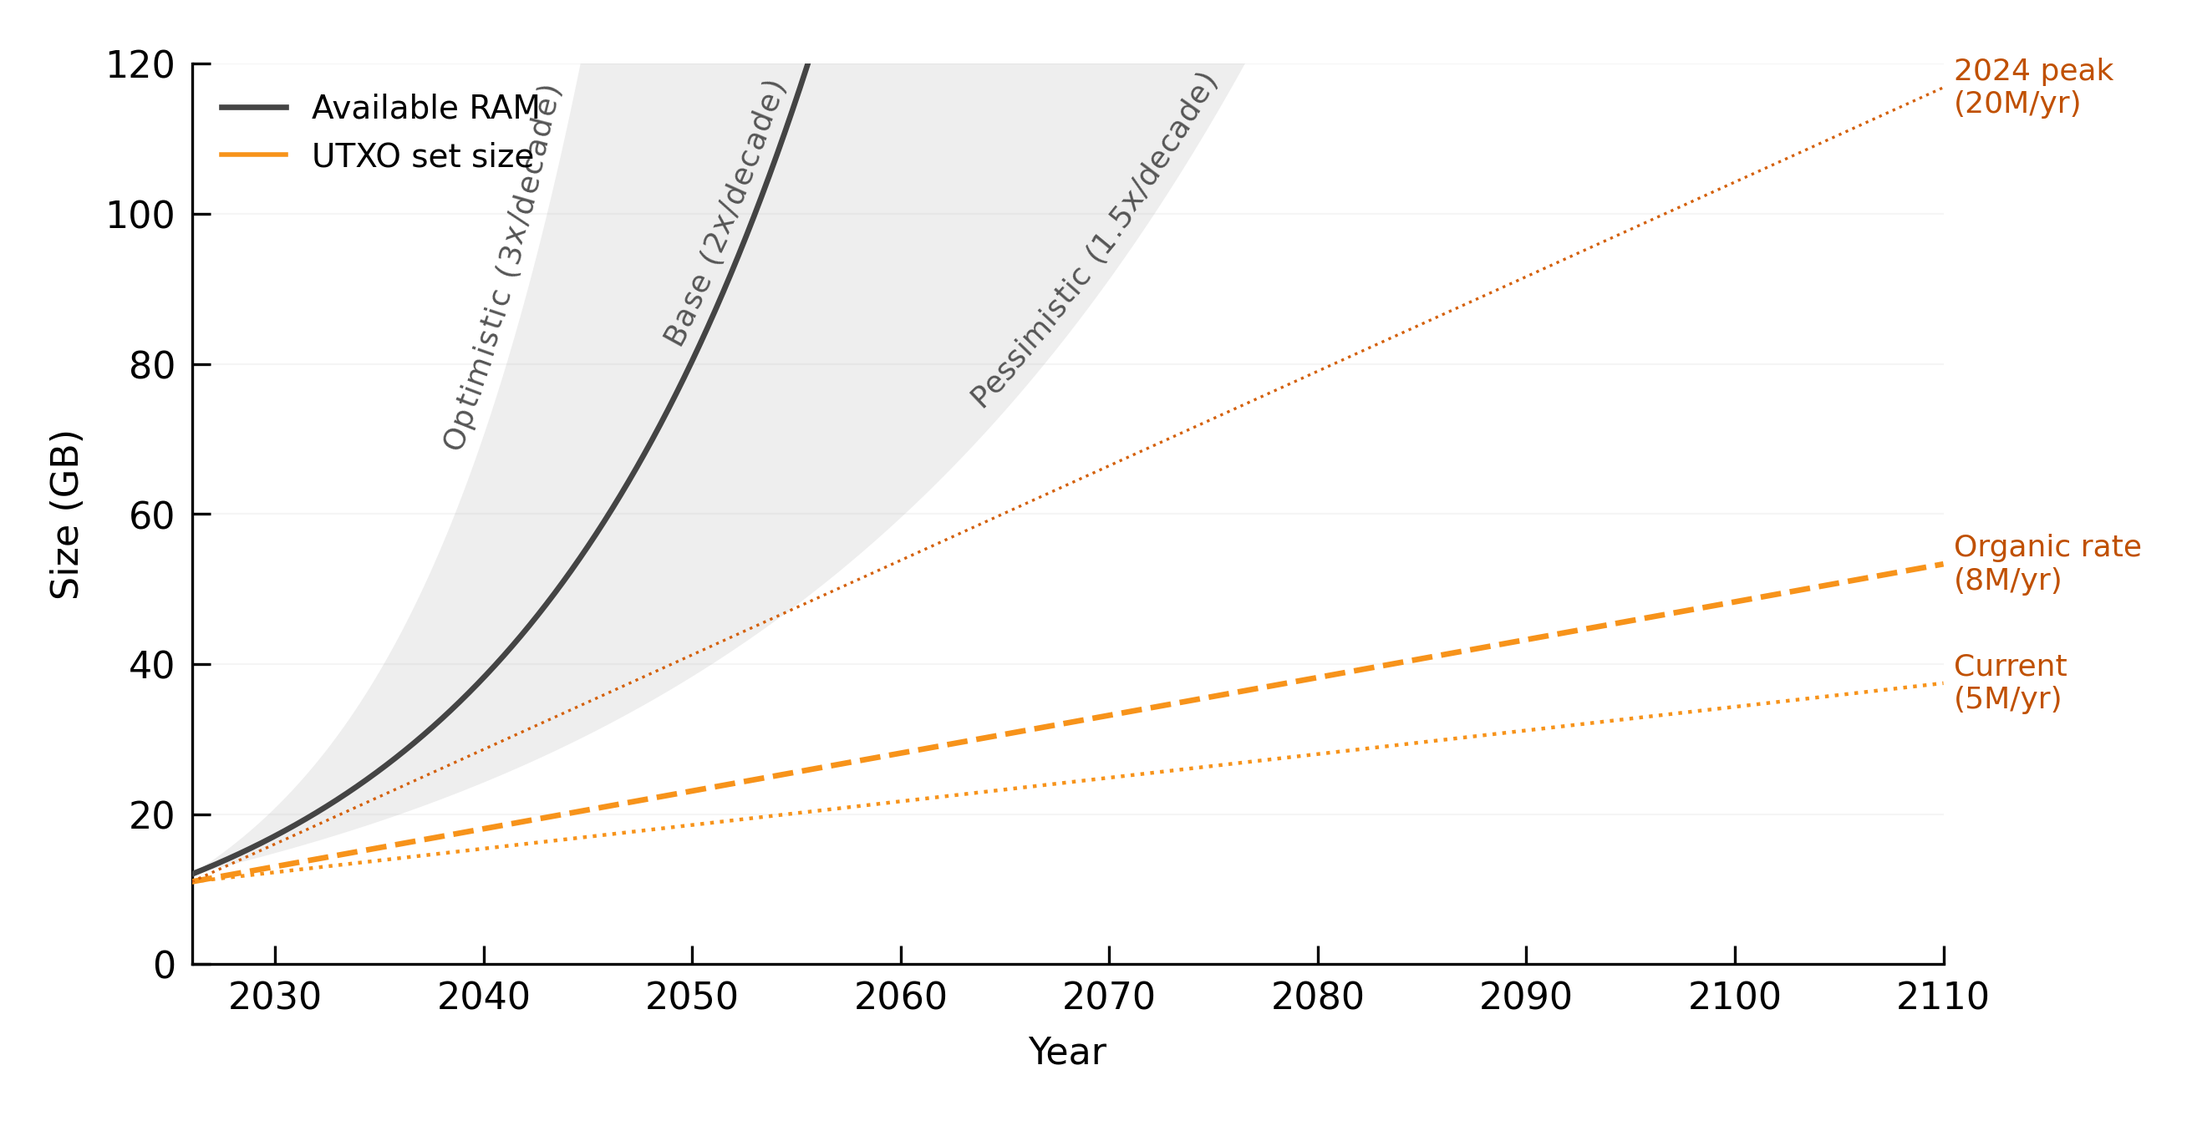
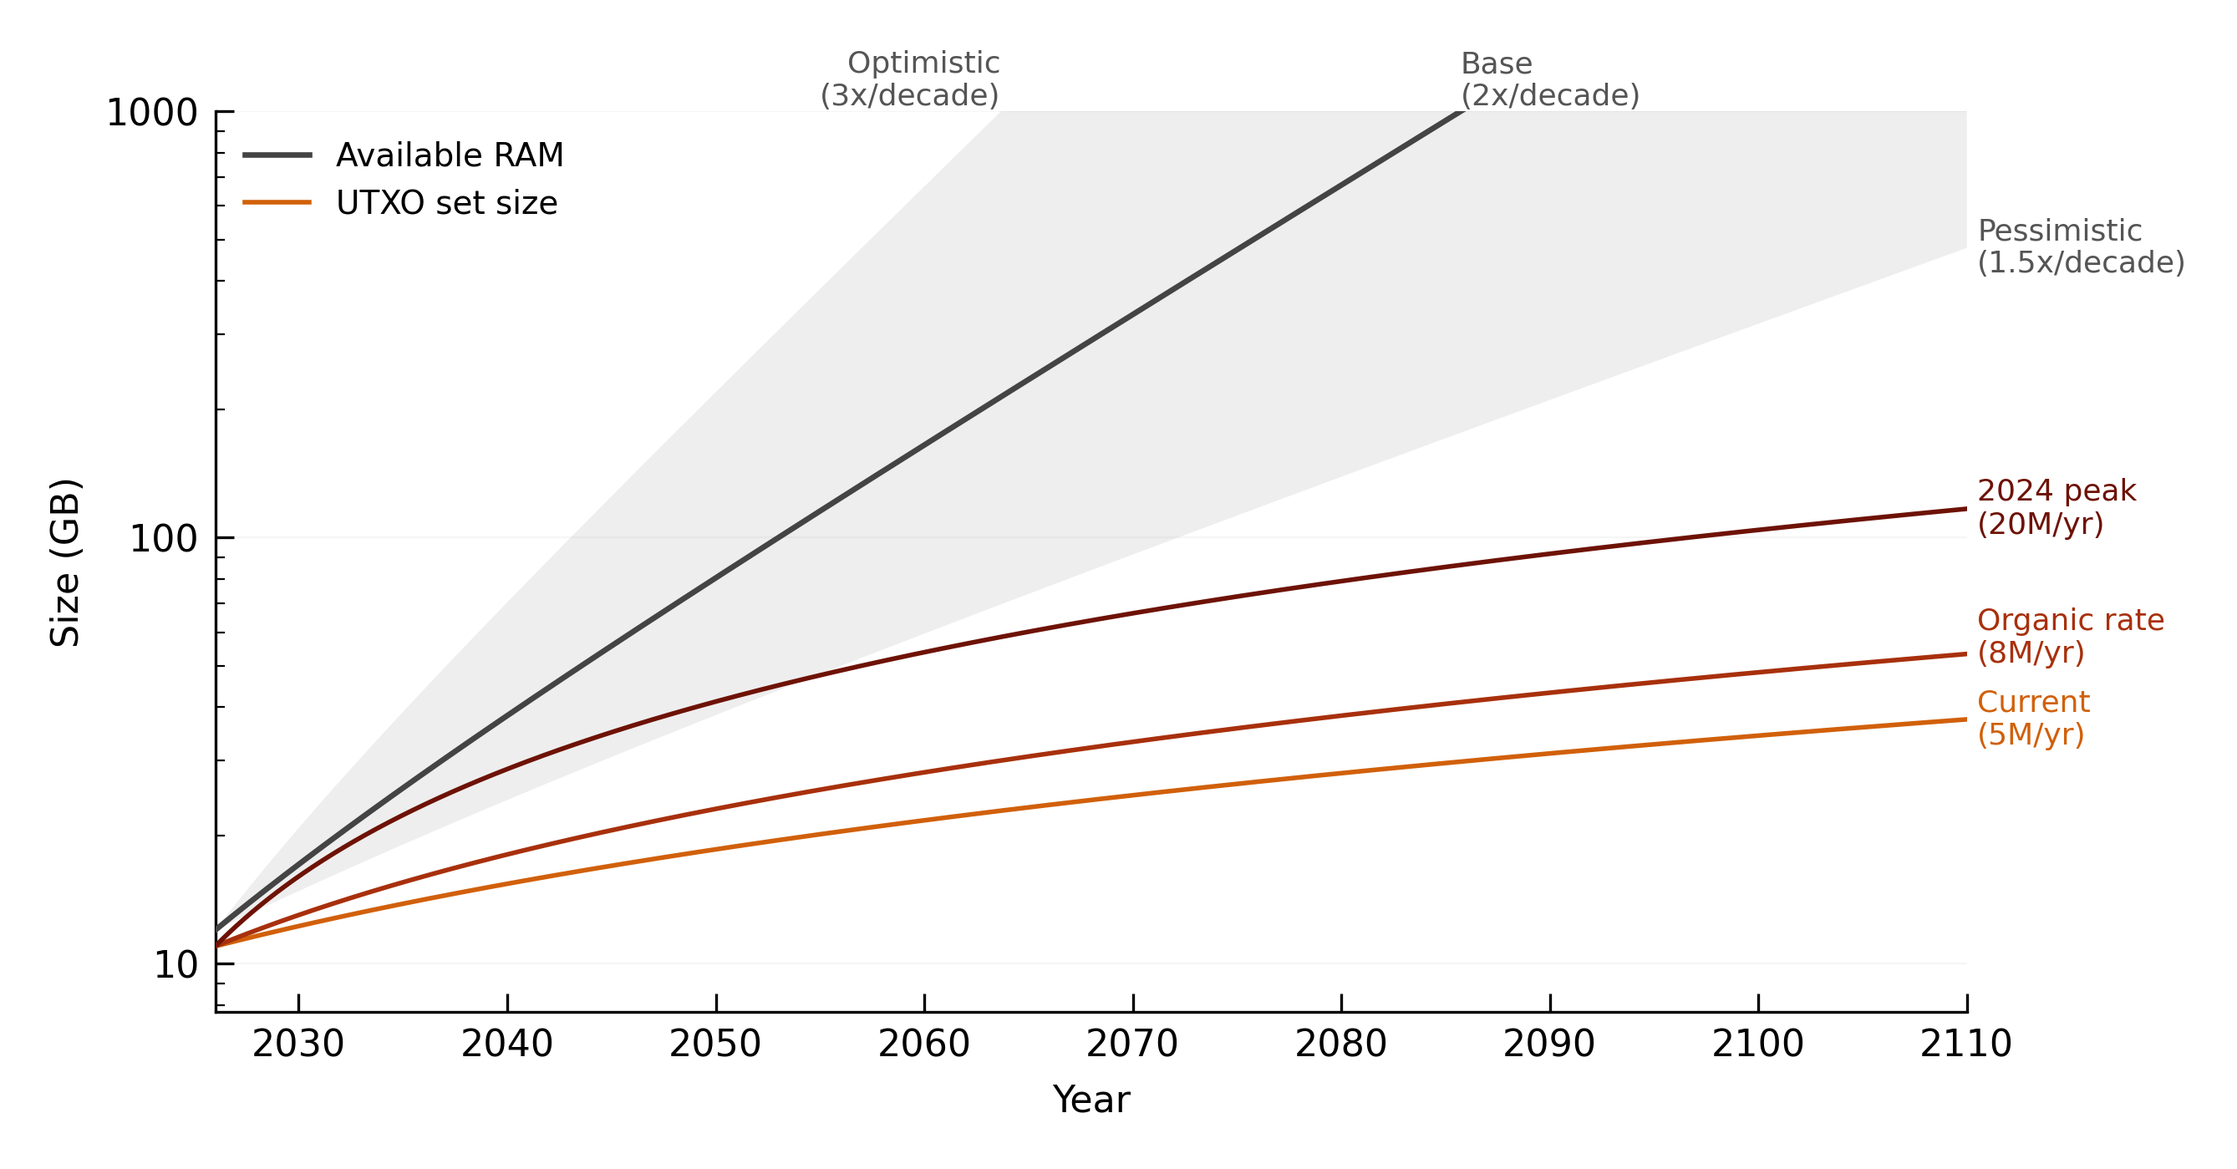
charts: log axes on IBD, bandwidth and UTXO; UTXO onto the heat ramp
All four 80-year figures now share one visual language. The three linear caps
were hiding most of each ceiling cloud: the IBD optimistic and base lines left
the 18 TB plot in the 2040s, bandwidth lost its optimistic tier from 2060, and
every RAM ceiling left the 120 GB plot before 2050.

The IBD ceiling bisection searched up to 50 TB, which is below the optimistic
ceiling from about 2100, so both the optimistic and base lines flattened onto
the solver's own bracket. Invisible on the old linear axis. Bracket widened.

UTXO was the last chart separating scenarios by dash pattern and line weight,
which the style spec bans, and it kept its own copies of the chainstate,
UTXO-entry and RAM constants. Both fixed.

Right-edge label spacing is now derived from the label's own height rather
than a fixed fraction of the axis range, so the storage chart's hand-tuned
override is gone.

No published number moves. The IBD ceiling is still 113 GB/yr, disk 111.

Claude-Session: https://claude.ai/code/session_01FyUSW9vx4w4WSJZXfnre6W

diff --git a/can-chain-growth-kill-node-decentralisation/models/utxo/charts.py b/can-chain-growth-kill-node-decentralisation/models/utxo/charts.py
@@ -12,33 +12,38 @@ import matplotlib.pyplot as plt
 import matplotlib.ticker as ticker
 
 sys.path.insert(0, str(pathlib.Path(__file__).resolve().parent.parent))
+import scenarios as sc
 from chart_style import (
     CEIL_LINE_BASE, CEIL_FILL_COLOR, CEIL_FILL_ALPHA,
     CEIL_LW_BASE,
-    CHAIN_COLOR, CHAIN_COLOR_MAX, CHAIN_LW_CONS, CHAIN_LW_BASE, CHAIN_LW_MAX,
-    LABEL_CEIL_COLOR, LABEL_CHAIN_COLOR,
+    CHAIN_RAMP, CHAIN_LW,
+    LABEL_CEIL_COLOR,
     FIGSIZE, TOTAL_YEARS, START_YEAR, GRID_ALPHA,
-    save, smart_labels, group_legend, label_along_curve,
+    save, smart_labels, group_legend, log_yaxis,
 )
 
 # ── Constants ─────────────────────────────────────────────────────────
 
-CHAINSTATE_GB_2026 = 11.0
-BYTES_PER_ENTRY = 63
+CHAINSTATE_GB_2026 = sc.CHAINSTATE_GB_2025
+BYTES_PER_ENTRY = sc.BYTES_PER_UTXO_ENTRY
 
-RAM_TOTAL_GB = 16
+RAM_TOTAL_GB = sc.RAM_GB
 RAM_OVERHEAD_GB = 4
-UPGRADE_INTERVAL = 10
+UPGRADE_INTERVAL = sc.HW_UPGRADE_INTERVAL
 
 RAM_MULT_OPT = 3.0
 RAM_MULT_BASE = 2.0
 RAM_MULT_PESS = 1.5
 
 UTXO_WORST_PER_YR = 20_000_000
-UTXO_REAL_PER_YR = 8_000_000
+UTXO_REAL_PER_YR = sc.UTXO_ENTRIES_PER_YEAR
 UTXO_CURRENT_PER_YR = 5_000_000
 
-Y_MAX_GB = 120
+# Top of the log axis. The base RAM ceiling reaches ~5,400 GB by 2110 and the
+# optimistic one far more, so the cloud runs off the top as it does on the
+# storage chart. The old 120 GB linear cap cut every ceiling line off before
+# 2050 and left only the chainstate lines visible.
+Y_TOP_LOG_GB = 1000
 
 
 # ── Helpers ───────────────────────────────────────────────────────────
@@ -78,39 +83,40 @@ def make_chart():
     ax.plot(dates, ram_base, color=CEIL_LINE_BASE, linewidth=CEIL_LW_BASE,
             linestyle="-", zorder=5)
 
-    # Chain growth lines (no fill)
-    ax.plot(dates, cs_curr, color=CHAIN_COLOR, linewidth=CHAIN_LW_CONS,
-            linestyle=":", zorder=5)
-    ax.plot(dates, cs_real, color=CHAIN_COLOR, linewidth=CHAIN_LW_BASE,
-            linestyle="--", zorder=5)
-    ax.plot(dates, cs_worst, color=CHAIN_COLOR_MAX, linewidth=CHAIN_LW_MAX,
-            linestyle=":", zorder=5)
+    # Growth scenarios: ordered by rate, so colour carries the severity and
+    # every line is the same weight and solid. They were previously separated
+    # by dash pattern and thickness, which the style spec bans.
+    ax.plot(dates, cs_curr, color=CHAIN_RAMP[1], linewidth=CHAIN_LW,
+            linestyle="-", zorder=5)
+    ax.plot(dates, cs_real, color=CHAIN_RAMP[2], linewidth=CHAIN_LW,
+            linestyle="-", zorder=5)
+    ax.plot(dates, cs_worst, color=CHAIN_RAMP[3], linewidth=CHAIN_LW,
+            linestyle="-", zorder=5)
 
     ax.set_xlabel("Year", fontsize=8)
     ax.set_ylabel("Size (GB)", fontsize=8)
     ax.set_xlim(START_YEAR, START_YEAR + TOTAL_YEARS)
-    ax.set_ylim(0, Y_MAX_GB)
     ax.xaxis.set_major_locator(ticker.MultipleLocator(10))
-    ax.yaxis.set_major_locator(ticker.MultipleLocator(20))
+    log_yaxis(ax, min(cs_curr.min(), ram_pess.min()), Y_TOP_LOG_GB)
     ax.yaxis.grid(True, alpha=GRID_ALPHA, linewidth=0.4)
 
-    # Ceiling labels — curved along their lines
-    label_along_curve(ax, dates, ram_opt, "Optimistic (3x/decade)",
-                      LABEL_CEIL_COLOR, y_max=Y_MAX_GB)
-    label_along_curve(ax, dates, ram_base, "Base (2x/decade)",
-                      LABEL_CEIL_COLOR, y_max=Y_MAX_GB)
-    label_along_curve(ax, dates, ram_pess, "Pessimistic (1.5x/decade)",
-                      LABEL_CEIL_COLOR, y_max=Y_MAX_GB)
-
-    # Chain labels — right edge
+    # Labels are colour-matched to their own line, not to a shared orange.
     x_end = START_YEAR + TOTAL_YEARS
+    y_top = ax.get_ylim()[1]
     smart_labels(ax, dates, [
-        (cs_curr, "Current\n(5M/yr)", LABEL_CHAIN_COLOR),
-        (cs_real, "Organic rate\n(8M/yr)", LABEL_CHAIN_COLOR),
-        (cs_worst, "2024 peak\n(20M/yr)", LABEL_CHAIN_COLOR),
-    ], Y_MAX_GB, x_end)
+        (cs_curr, f"Current\n({UTXO_CURRENT_PER_YR // 1_000_000}M/yr)",
+         CHAIN_RAMP[1]),
+        (cs_real, f"Organic rate\n({UTXO_REAL_PER_YR // 1_000_000}M/yr)",
+         CHAIN_RAMP[2]),
+        (cs_worst, f"2024 peak\n({UTXO_WORST_PER_YR // 1_000_000}M/yr)",
+         CHAIN_RAMP[3]),
+        (ram_opt, f"Optimistic\n({RAM_MULT_OPT:g}x/decade)", LABEL_CEIL_COLOR),
+        (ram_base, f"Base\n({RAM_MULT_BASE:g}x/decade)", LABEL_CEIL_COLOR),
+        (ram_pess, f"Pessimistic\n({RAM_MULT_PESS:g}x/decade)", LABEL_CEIL_COLOR),
+    ], y_top, x_end, log=True)
 
-    group_legend(ax, "Available RAM", "UTXO set size")
+    group_legend(ax, "Available RAM", "UTXO set size",
+                 chain_color=CHAIN_RAMP[1])
 
     fig.subplots_adjust(right=0.78)
     save(fig, "fig-utxo")

diff --git a/can-chain-growth-kill-node-decentralisation/models/ibd/charts.py b/can-chain-growth-kill-node-decentralisation/models/ibd/charts.py
@@ -19,7 +19,7 @@ from chart_style import (
     CHAIN_RAMP, CHAIN_LW,
     LABEL_CEIL_COLOR, LABEL_CHAIN_COLOR,
     FIGSIZE, TOTAL_YEARS, START_YEAR, GRID_ALPHA,
-    save, smart_labels, group_legend, label_along_curve,
+    save, smart_labels, group_legend, log_yaxis,
 )
 
 from model import (
@@ -34,8 +34,18 @@ from model import (
 
 # ── Constants ─────────────────────────────────────────────────────────
 
-Y_MAX_TB = 18
+# Top of the log axis. The optimistic ceiling reaches ~580 TB by 2110, which
+# would push every chain line into the bottom of the plot. 100 TB keeps the
+# cloud running off the top, as on the storage chart.
+Y_TOP_LOG_TB = 100
 FV_GROWTH_REF = 80
+
+# Upper bracket for the bisection below, in GB. It was 50,000 (50 TB), which
+# is smaller than the optimistic ceiling from about 2100 on, so both the
+# optimistic and base ceiling lines flattened onto the bracket itself rather
+# than onto anything the model says. On the old 18 TB linear axis both lines
+# had left the plot long before, so the artefact never showed.
+CEIL_SEARCH_MAX_GB = 5_000_000
 
 HW_OPT = 2.0
 HW_BASE = HW_IMPROVEMENT_PER_DECADE  # 1.5
@@ -62,8 +72,8 @@ def make_chart():
             chainstate = utxo_chainstate_gb(yr_int)
             target_hours = MAX_IBD_DAYS * 24 * hw_mult
 
-            lo, hi = 0.0, 50_000.0
-            for _ in range(100):
+            lo, hi = 0.0, CEIL_SEARCH_MAX_GB
+            for _ in range(200):
                 mid = (lo + hi) / 2
                 result = ibd_time_hours(
                     mid, FV_GROWTH_REF, CEIL_SIGOPS, chainstate,
@@ -109,26 +119,22 @@ def make_chart():
     ax.set_xlabel("Year", fontsize=8)
     ax.set_ylabel("Chain size (TB)", fontsize=8)
     ax.set_xlim(START_YEAR, START_YEAR + TOTAL_YEARS)
-    ax.set_ylim(0, Y_MAX_TB)
     ax.xaxis.set_major_locator(ticker.MultipleLocator(10))
-    ax.yaxis.set_major_locator(ticker.MultipleLocator(2))
+    log_yaxis(ax, min(ch_cur.min(), ceil_pess.min()), Y_TOP_LOG_TB)
     ax.yaxis.grid(True, alpha=GRID_ALPHA, linewidth=0.4)
 
-    # Ceiling labels — curved along their lines
-    label_along_curve(ax, dates, ceil_opt, "Optimistic (2x/decade)",
-                      LABEL_CEIL_COLOR, y_max=Y_MAX_TB)
-    label_along_curve(ax, dates, ceil_base, "Base (1.5x/decade)",
-                      LABEL_CEIL_COLOR, y_max=Y_MAX_TB)
-    label_along_curve(ax, dates, ceil_pess, "Pessimistic (1.2x/decade)",
-                      LABEL_CEIL_COLOR, y_max=Y_MAX_TB)
-
-    # Chain labels — right edge
+    # Every label goes to the right edge and is spaced there in one pass,
+    # in log space so the gaps stay even on screen.
     x_end = START_YEAR + TOTAL_YEARS
+    y_top = ax.get_ylim()[1]
     smart_labels(ax, dates, [
         (ch_cur, sc.chart_label("current"), CHAIN_RAMP[1]),
         (ch_peak, sc.chart_label("peak"), CHAIN_RAMP[2]),
         (ch_worst, sc.chart_label("realistic_worst"), CHAIN_RAMP[3]),
-    ], Y_MAX_TB, x_end)
+        (ceil_opt, "Optimistic\n(2x/decade)", LABEL_CEIL_COLOR),
+        (ceil_base, "Base\n(1.5x/decade)", LABEL_CEIL_COLOR),
+        (ceil_pess, "Pessimistic\n(1.2x/decade)", LABEL_CEIL_COLOR),
+    ], y_top, x_end, log=True)
 
     group_legend(ax, "7-day processing limit", "Chain size", chain_color=CHAIN_RAMP[1])
 

diff --git a/can-chain-growth-kill-node-decentralisation/models/chart_style.py b/can-chain-growth-kill-node-decentralisation/models/chart_style.py
@@ -10,6 +10,7 @@ Output: PNG at 400 DPI.
 
 import pathlib
 import matplotlib as mpl
+import matplotlib.ticker as ticker
 
 # ── Apply academic rcParams on import ──────────────────────────────────
 
@@ -116,6 +117,30 @@ def save(fig, name):
     print(f"Saved: {png}")
 
 
+def log_yaxis(ax, floor, top):
+    """Put the y-axis on a log scale, decade ticks, plain numeric labels.
+
+    floor is the smallest value that must stay on the plot; the axis starts a
+    little below it. top caps the axis so a ceiling cloud spanning several
+    more orders of magnitude runs off the top instead of crushing everything
+    a reader actually looks at.
+
+    Shared by every 80-year chart. The spec's rule is that a log axis is used
+    wherever the series span more than about an order of magnitude, and all
+    four of them do.
+    """
+    import numpy as _np
+
+    ax.set_yscale("log")
+    ax.set_ylim(floor * 0.7, top)
+    ax.yaxis.set_major_locator(ticker.LogLocator(base=10))
+    ax.yaxis.set_minor_locator(
+        ticker.LogLocator(base=10, subs=tuple(_np.arange(2, 10) * 0.1),
+                          numticks=100))
+    ax.yaxis.set_major_formatter(ticker.FuncFormatter(lambda v, _: f"{v:g}"))
+    ax.yaxis.set_minor_formatter(ticker.NullFormatter())
+
+
 def group_legend(ax, ceil_label, chain_label, loc="upper left",
                  chain_color=None):
     """Add a minimal 2-entry legend identifying the ceiling and chain groups."""
@@ -159,8 +184,17 @@ def labels_right(ax, x, items, min_gap=None, log=False):
     inv = (lambda v: 10 ** v) if log else (lambda v: v)
 
     if min_gap is None:
+        # Derive the gap from the label's own height rather than from a
+        # fraction of the axis range. A fixed fraction is wrong at both ends:
+        # it overlaps two-line labels on a short axis and spreads them
+        # absurdly on a tall one. This works in whatever space the axis is
+        # drawn in, so it is correct on log axes too.
         y0, y1 = ax.get_ylim()
-        min_gap = (fwd(y1) - fwd(y0)) * 0.04
+        n_lines = max(t[1].count("\n") + 1 for t in items)
+        label_height_in = LABEL_FONTSIZE * 1.35 * n_lines / 72
+        bbox = ax.get_window_extent()
+        axes_height_in = bbox.height / ax.get_figure().dpi
+        min_gap = (fwd(y1) - fwd(y0)) * label_height_in / axes_height_in
 
     # Sort by y position
     sorted_items = sorted(items, key=lambda t: t[0])

diff --git a/can-chain-growth-kill-node-decentralisation/models/bandwidth/charts.py b/can-chain-growth-kill-node-decentralisation/models/bandwidth/charts.py
@@ -19,7 +19,7 @@ from chart_style import (
     CHAIN_RAMP, CHAIN_LW,
     LABEL_CEIL_COLOR, LABEL_CHAIN_COLOR,
     FIGSIZE, TOTAL_YEARS, START_YEAR, GRID_ALPHA,
-    save, smart_labels, group_legend, label_along_curve,
+    save, smart_labels, group_legend, log_yaxis,
 )
 
 from model import (
@@ -30,7 +30,12 @@ from model import (
 # ── Constants ─────────────────────────────────────────────────────────
 
 SECONDS_PER_DAY = 86_400
-Y_MAX = 250
+
+# Top of the log axis. The optimistic tier reaches ~1,340 Mbps by 2110. The
+# old 250 Mbps linear cap cut the optimistic line off in 2060 and the base
+# line in 2090, so two of the three supply tiers the caption promised were
+# missing from most of the chart.
+Y_TOP_LOG = 1000
 
 RATE_WORST = sc.RATE_REALISTIC_WORST
 RATE_PEAK = sc.RATE_PEAK
@@ -95,26 +100,20 @@ def make_chart():
     ax.set_xlabel("Year", fontsize=8)
     ax.set_ylabel("Download speed (Mbps)", fontsize=8)
     ax.set_xlim(START_YEAR, START_YEAR + TOTAL_YEARS)
-    ax.set_ylim(0, Y_MAX)
     ax.xaxis.set_major_locator(ticker.MultipleLocator(10))
-    ax.yaxis.set_major_locator(ticker.MultipleLocator(50))
+    log_yaxis(ax, min(inet_pess.min(), req_cur.min()), Y_TOP_LOG)
     ax.yaxis.grid(True, alpha=GRID_ALPHA, linewidth=0.4)
 
-    # Ceiling labels — curved along their lines, right-aligned to exit point
-    label_along_curve(ax, dates, inet_opt, "Optimistic (developed)",
-                      LABEL_CEIL_COLOR, y_max=Y_MAX)
-    label_along_curve(ax, dates, inet_base, "Base (global)",
-                      LABEL_CEIL_COLOR, y_max=Y_MAX)
-    label_along_curve(ax, dates, inet_pess, "Pessimistic (developing)",
-                      LABEL_CEIL_COLOR, y_max=Y_MAX)
-
-    # Chain labels — right edge
     x_end = START_YEAR + TOTAL_YEARS
+    y_top = ax.get_ylim()[1]
     smart_labels(ax, dates, [
         (req_cur, sc.chart_label("current"), CHAIN_RAMP[1]),
         (req_peak, sc.chart_label("peak"), CHAIN_RAMP[2]),
         (req_worst, sc.chart_label("realistic_worst"), CHAIN_RAMP[3]),
-    ], Y_MAX, x_end)
+        (inet_opt, "Optimistic\n(developed)", LABEL_CEIL_COLOR),
+        (inet_base, "Base\n(global)", LABEL_CEIL_COLOR),
+        (inet_pess, "Pessimistic\n(developing)", LABEL_CEIL_COLOR),
+    ], y_top, x_end, log=True)
 
     group_legend(ax, "Internet speed", "7-day IBD requires", chain_color=CHAIN_RAMP[1])
 

diff --git a/can-chain-growth-kill-node-decentralisation/models/storage/charts.py b/can-chain-growth-kill-node-decentralisation/models/storage/charts.py
@@ -23,7 +23,7 @@ from chart_style import (
     CHAIN_RAMP, CHAIN_LW,
     LABEL_FONTSIZE, LABEL_CEIL_COLOR,
     FIGSIZE, TOTAL_YEARS, START_YEAR, GRID_ALPHA,
-    save, smart_labels, group_legend,
+    save, smart_labels, group_legend, log_yaxis,
 )
 
 # ── Constants ─────────────────────────────────────────────────────────
@@ -89,16 +89,7 @@ def make_chart(suffix="", footnote=None, label_min_gap=None, log=False,
     if log:
         floor = min(ceil["pessimistic"].min(),
                     min(s.min() for s, _, _ in demand))
-        ax.set_yscale("log")
-        ax.set_ylim(floor * 0.7,
-                    log_top or ceil["optimistic"].max() * 1.4)
-        ax.yaxis.set_major_locator(ticker.LogLocator(base=10))
-        ax.yaxis.set_minor_locator(
-            ticker.LogLocator(base=10, subs=tuple(np.arange(2, 10) * 0.1),
-                              numticks=100))
-        ax.yaxis.set_major_formatter(
-            ticker.FuncFormatter(lambda v, _: f"{v:g}"))
-        ax.yaxis.set_minor_formatter(ticker.NullFormatter())
+        log_yaxis(ax, floor, log_top or ceil["optimistic"].max() * 1.4)
         label_ceiling = ax.get_ylim()[1]
     else:
         ax.set_ylim(0, Y_MAX_TB)
@@ -144,4 +135,4 @@ if __name__ == "__main__":
     # No on-figure footnote. The style spec puts detail in the caption, and
     # the decay rule, the upgrade cycle and the log axis are all stated in
     # section 4, appendix C.4 and the figure caption respectively.
-    make_chart(label_min_gap=0.24, log=True)
+    make_chart(log=True)

diff --git a/can-chain-growth-kill-node-decentralisation/README.md b/can-chain-growth-kill-node-decentralisation/README.md
@@ -198,7 +198,7 @@ Storage is not the only resource that grows with the chain. Do any of the others
 
 ![Required IBD bandwidth against residential internet supply](figures/fig-bandwidth.png)
 
-*Model: [`models/bandwidth/`](models/bandwidth).*
+*Log vertical axis, so each gridline is ten times the one below. Model: [`models/bandwidth/`](models/bandwidth).*
 
 Following the tip needs little bandwidth compared with IBD. Downloading the current 724 GB chain inside seven days requires about **9.6 Mbps**, and even the data-heavy year-10 chain of 2,602 GB requires only **34 Mbps**.
 
@@ -210,7 +210,7 @@ Bandwidth **cost** is a separate access problem and is treated in Section 6.
 
 ![Chain size against the seven-day processing limit](figures/fig-ibd.png)
 
-*Model: [`models/ibd/`](models/ibd).*
+*Log vertical axis. The optimistic hardware ceiling runs off the top. Model: [`models/ibd/`](models/ibd).*
 
 On the N100 reference machine, IBD processing tracks chain size more closely than transaction composition. At today's average block a year-10 sync takes about **6.1 days** against the seven-day target, and at the observed 80 GB/year trajectory about **5.7 days**. The data-heavy scenario reaches **9.8 days**.
 
@@ -222,7 +222,7 @@ IBD also has active software mitigations. AssumeUTXO can reduce time-to-usable b
 
 ![UTXO chainstate growth scenarios against available RAM](figures/fig-utxo.png)
 
-*Model: [`models/utxo/`](models/utxo).*
+*Log vertical axis. RAM growth leaves the plot long before 2110, which is the point: the chainstate is not the binding constraint. Model: [`models/utxo/`](models/utxo).*
 
 The current chainstate is about 11 GB, close to the amount a 16 GB machine can cache after the operating system takes its share. Once it grows beyond available RAM, more UTXO lookups hit disk. Benchmarks show that this can slow IBD materially, but it is a performance gradient rather than a functional cutoff [\[42\]](#ref-42).
 
